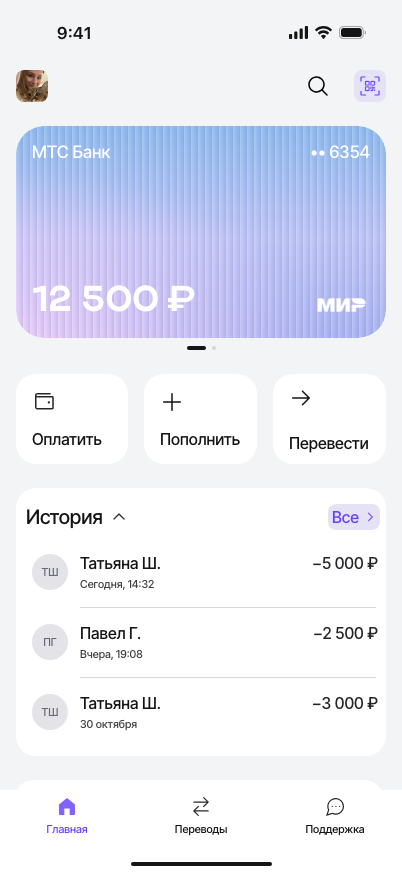
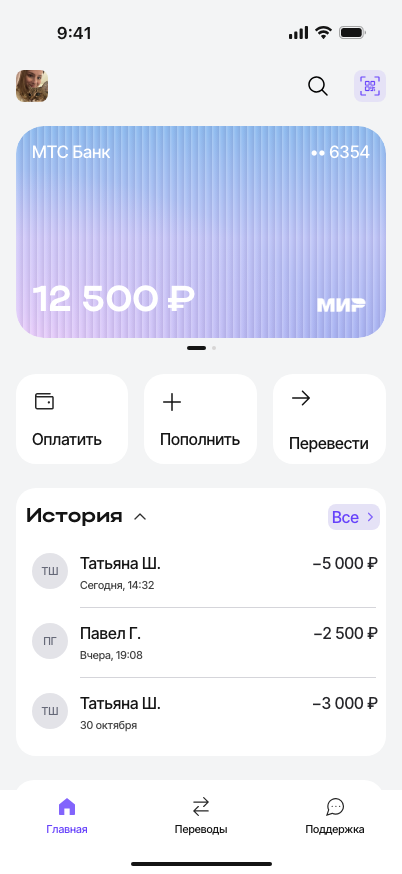
Apply revised H2 typography to ruble home

diff --git a/src/styles.css b/src/styles.css
@@ -1484,3 +1484,9 @@ body:has(.guest-direction-sheet[open]) { overflow:hidden; }
 .menu-currency .currency-heading h2 { margin:0 0 0 2px; line-height:29px; }
 .currency-subtitle { margin:-5px 0 16px 2px; font:500 11px/16px 'Inter Tight',sans-serif; }
 .currency-continue { display:flex; align-items:center; justify-content:center; width:100%; height:40px; margin-top:12px; border-radius:12px; background:#141414; color:white; font:500 14px/16px 'Inter Tight',sans-serif; }
+
+/* Revised H2 and body leading on the ruble home — Figma 161:4169. */
+.home-screen[data-active-card=debit] h2 { font:700 20px/24px 'Actay Wide',sans-serif; letter-spacing:0; }
+.home-screen[data-active-card=debit] .operation-name,
+.home-screen[data-active-card=debit] .operation-amount { line-height:20px; }
+.home-screen[data-active-card=debit] .operation { padding-block:15px; }
